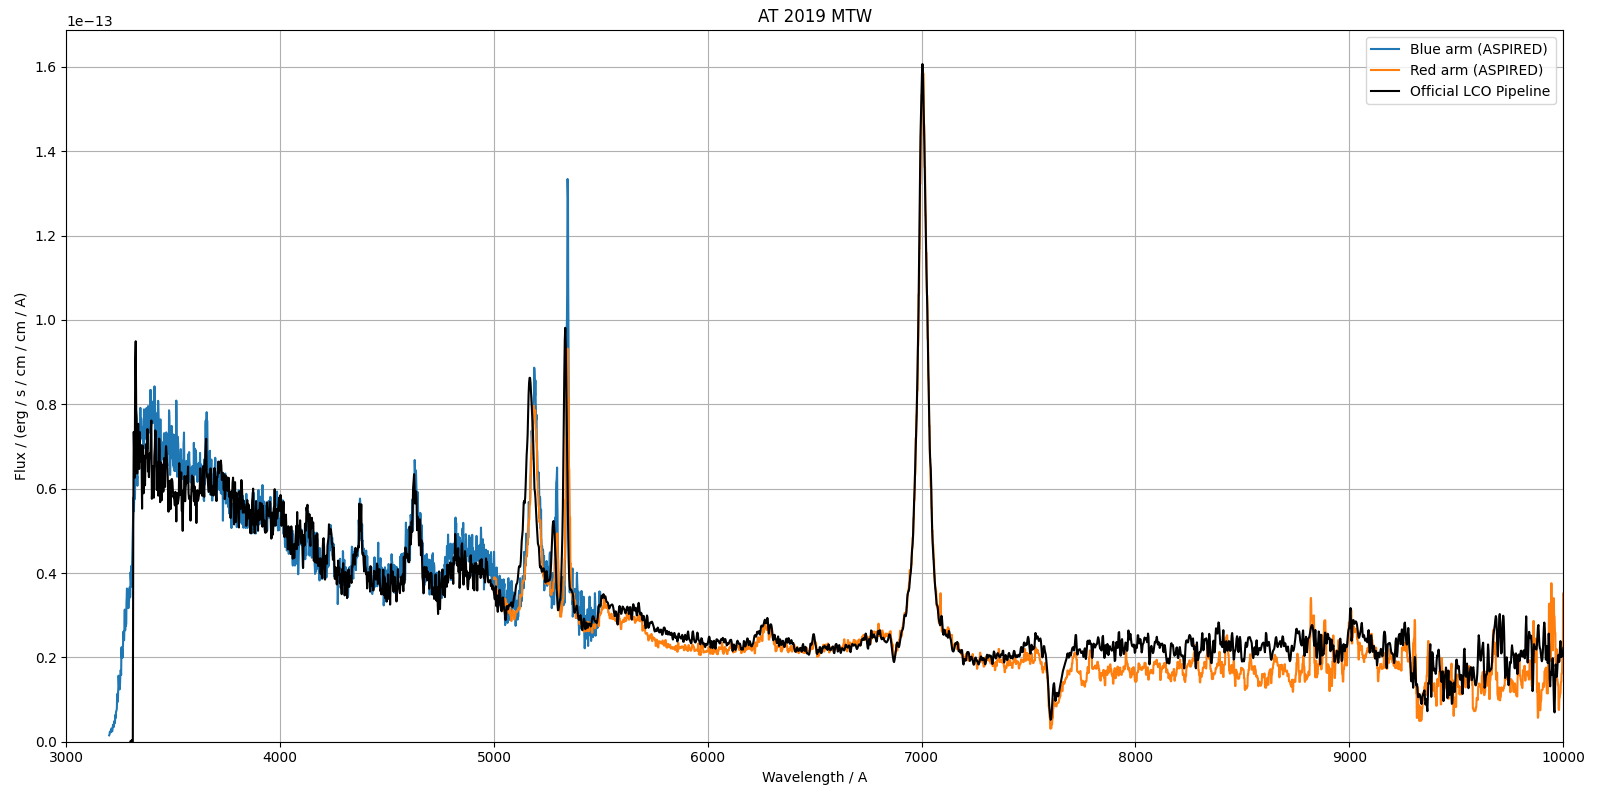
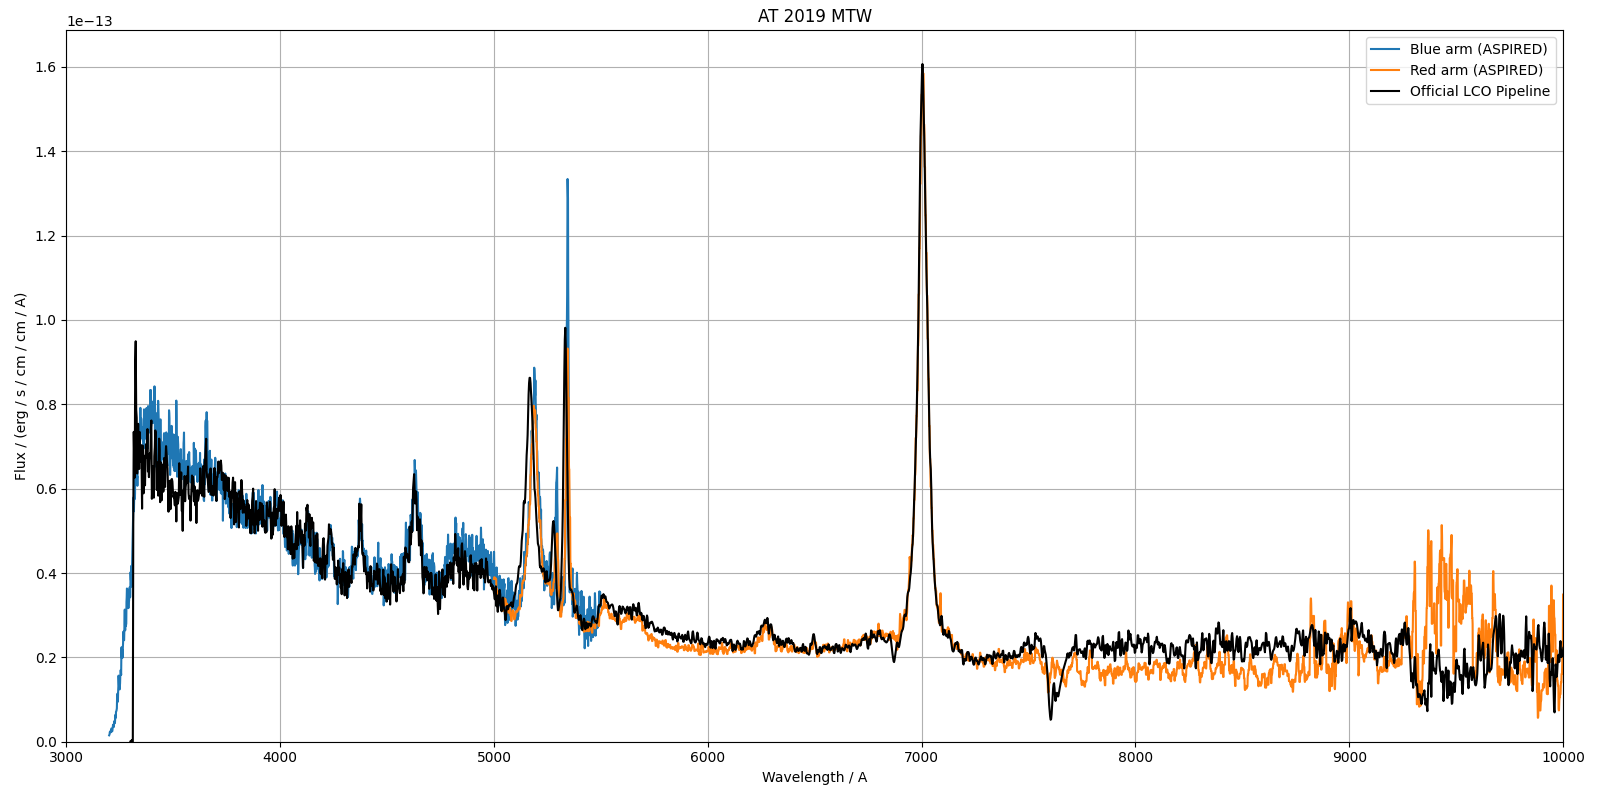
Telluric removal is working well on the FLOYDS spectrum.

Changed region(s): [[0.8125, 0.6562, 0.9688, 0.9062], [0.6562, 0.8125, 0.6875, 0.875]]

diff --git a/example_FTS_FLOYDS/example_FTS_FLOYDS.py b/example_FTS_FLOYDS/example_FTS_FLOYDS.py
@@ -223,6 +223,7 @@ def calibrate_red(science, standard, standard_name):
     red_onedspec.load_standard(standard_name)
     red_onedspec.compute_sensitivity()
     red_onedspec.apply_flux_calibration()
+    red_onedspec.apply_telluric_correction()
 
     return red_onedspec
 
@@ -306,8 +307,8 @@ AT2019mtw_twodspec_red, AT2019mtw_twodspec_blue, AT2019mtw_twodspec_flat =\
 
 standard_name = 'l74546a'
 
-onedspec_blue = calibrate_blue(AT2019mtw_twodspec_blue,
-                               standard_twodspec_blue, standard_name)
+onedspec_blue = calibrate_blue(AT2019mtw_twodspec_blue, standard_twodspec_blue,
+                               standard_name)
 onedspec_red = calibrate_red(AT2019mtw_twodspec_red, standard_twodspec_red,
                              standard_name)
 
